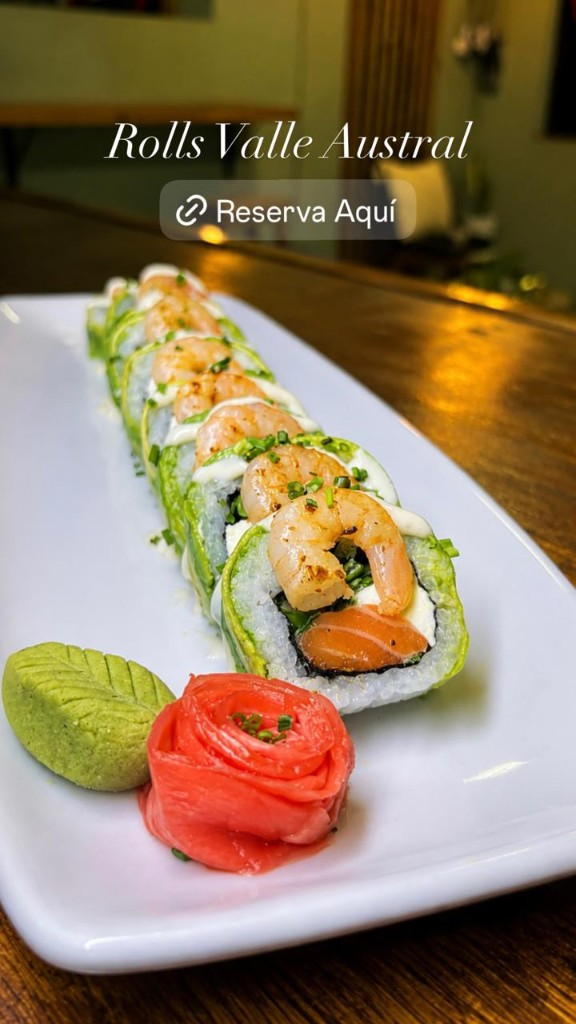
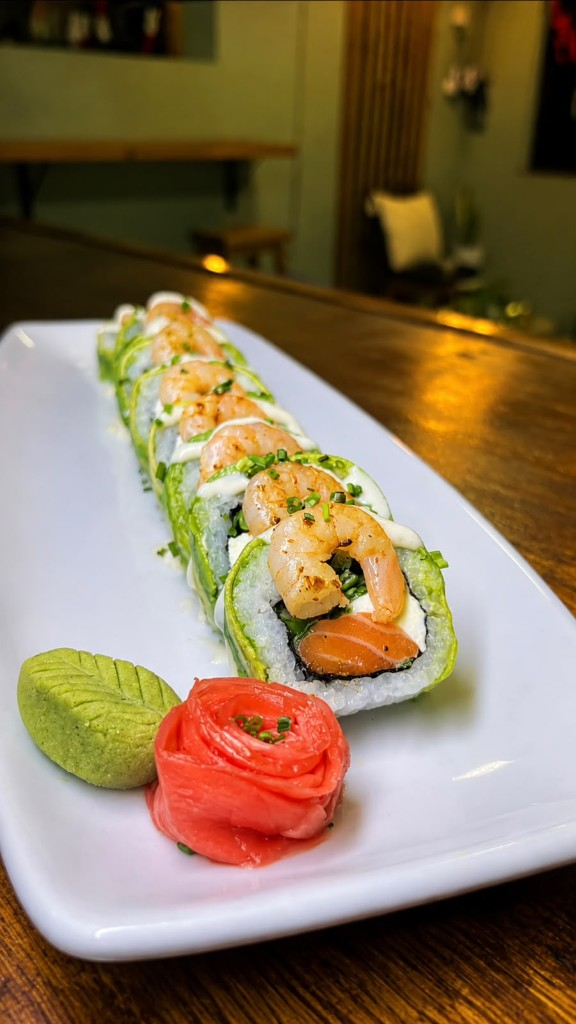
Agrega el roll camaron crunch y actualiza la foto del Valle Austral.

diff --git a/src/lib/seed.ts b/src/lib/seed.ts
@@ -548,6 +548,18 @@ const rawMenu: {
       order: 4,
     },
     {
+      id: "casa-crunch",
+      categoryId: "cat-casa",
+      name: "Roll camarón crunch",
+      description: "Palta, camarón apanado y salsa spicy.",
+      price: 7500,
+      extraPrice: 0,
+      details: [],
+      available: true,
+      featured: false,
+      order: 5,
+    },
+    {
       id: "wrap-qc-ciboulette",
       categoryId: "cat-wraps-premium",
       name: "Queso crema, ciboulette",

diff --git a/src/lib/images.ts b/src/lib/images.ts
@@ -101,6 +101,7 @@ const byId: Record<string, string> = {
   "casa-austral": "/photos/roll-casa-austral.jpg",
   "casa-salmon": "/photos/roll-casa-salmon.jpg",
   "casa-camaron": "/photos/roll-casa-camaron.jpg",
+  "casa-crunch": "/photos/roll-casa-crunch.jpg",
 };
 
 const byCategory: Record<string, string> = {
